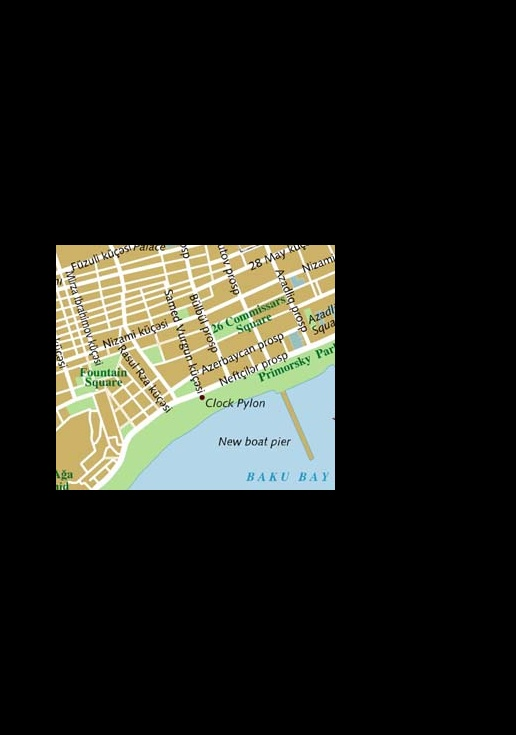
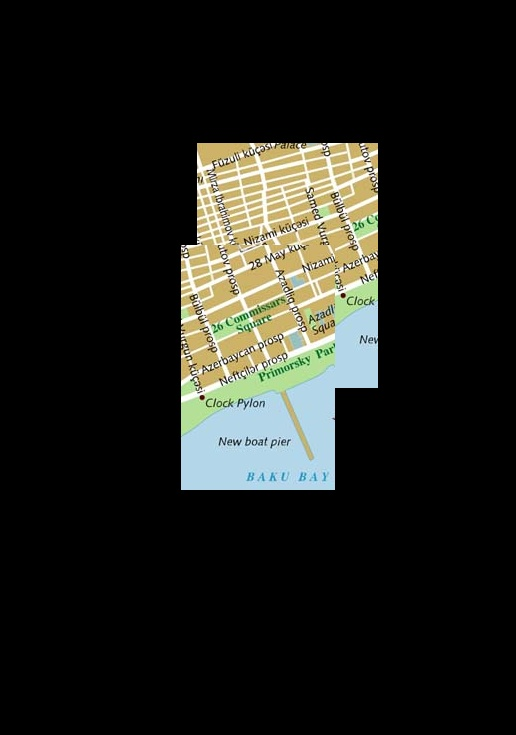
nelder-mead optimisation is added

Changed region(s): [[0.093, 0.1796, 0.7442, 0.6884]]

diff --git a/ImageStitcher.py b/ImageStitcher.py
@@ -1,6 +1,7 @@
 import cv2
 import numpy as np
 import time 
+from scipy.optimize import minimize
 
 class ImageStitcher:
     img1 = None
@@ -38,8 +39,14 @@ class ImageStitcher:
         #     return
         return {'x5':x5,'y5':y5,'x6':x6,'y6':y6}
 
-    def calculateLoss(self,canvas, SHIFT_X,SHIFT_Y,h1,w1,h2,w2):
-        coor = self.getIntersectionCoordinates(h1,w1,h2,w2,SHIFT_X,SHIFT_Y)
+    def calculateLoss(self,SHIFT):
+        SHIFT_X,SHIFT_Y = SHIFT
+        SHIFT_X, SHIFT_Y = int(SHIFT_X*(self.w1+self.w2)),int(SHIFT_Y*(self.h1+self.h2))
+        canvas = np.zeros((self.h1*2+self.h2,self.w1*2+self.w2,3), dtype=np.uint8)
+        canvas[:self.h1,:self.w1,:3] = self.img1
+        canvas[self.h1:self.h2+self.h1, self.w1:self.w1+self.w2,:3] = self.img2
+
+        coor = self.getIntersectionCoordinates(self.h1,self.w1,self.h2,self.w2,SHIFT_X,SHIFT_Y)
         image1 = canvas[coor['y6']-SHIFT_Y:coor['y5']-SHIFT_Y,coor['x5']-SHIFT_X:coor['x6']-SHIFT_X,:3]
         image2 = canvas[coor['y6']:coor['y5'],coor['x5']:coor['x6'],:3]
         loss = np.mean(np.absolute(np.subtract(image1,image2)))
@@ -57,27 +64,13 @@ class ImageStitcher:
     def mosaicImages(self):
         SHIFT_X = 1
         SHIFT_Y = 1
+        x0 = [0.5,0.5]
+        bnds = ((0,1),(0,1))
+        res = minimize(self.calculateLoss,x0, method = 'nelder-mead',bounds = bnds, options={'disp':True})
+        print(res.x)
+        self.BestX, self.BestY = int(res.x[0]*(self.w1+self.w2)),int(res.x[1]*(self.w1+self.w2))
+        
 
-        canvas = np.zeros((self.h1*2+self.h2,self.w1*2+self.w2,3), dtype=np.uint8)
-        canvas[:self.h1,:self.w1,:3] = self.img1
-        canvas[self.h1:self.h2+self.h1, self.w1:self.w1+self.w2,:3] = self.img2
-
-        BestLoss = self.calculateLoss(canvas,SHIFT_X,SHIFT_Y,self.h1,self.w1,self.h2,self.w2)
-        SHIFT_Y=2
-        while(SHIFT_X<self.w1+self.w2):
-            print("SHIFTX:",SHIFT_X)
-            #drawImage(SHIFT_X,SHIFT_Y)
-            while(SHIFT_Y<self.h1+self.h2):
-                loss = self.calculateLoss(canvas,SHIFT_X,SHIFT_Y,self.h1,self.w1,self.h2,self.w2)
-                #drawImage(SHIFT_X,SHIFT_Y)
-                print("LOSS: ",loss,"BestLoss: ",BestLoss)
-                if loss<BestLoss:
-                    self.drawImage(SHIFT_X,SHIFT_Y)
-                    BestLoss = loss
-                    self.BestX = SHIFT_X
-                    self.BestY = SHIFT_Y
-                SHIFT_Y+=1
-            SHIFT_Y = 1
-            SHIFT_X+=1
+        
 
 
